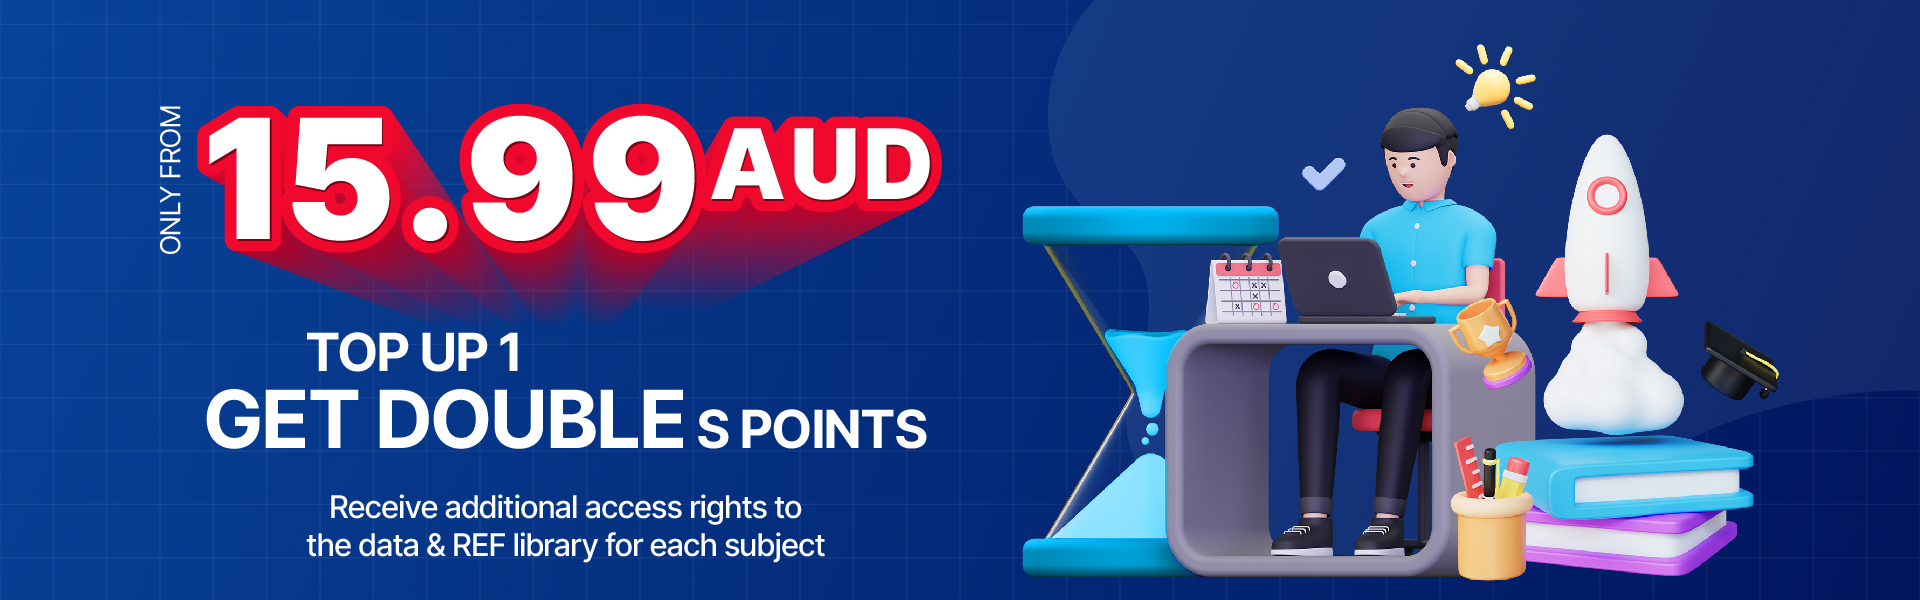
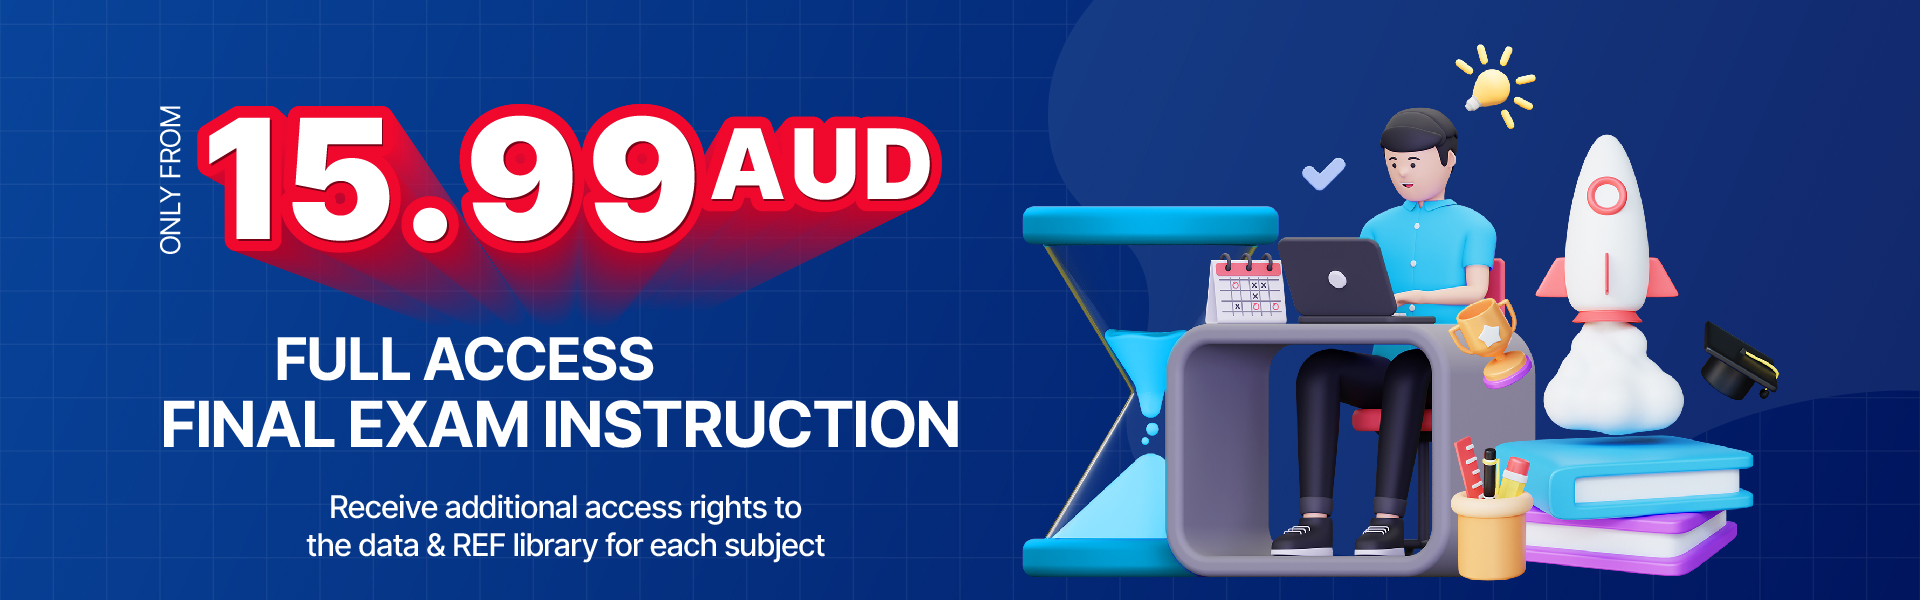
fixbug

Changed region(s): [[0.0625, 0.54, 0.5, 0.75]]

diff --git a/app/Http/Controllers/Admin/WebinarController.php b/app/Http/Controllers/Admin/WebinarController.php
@@ -54,7 +54,7 @@ class WebinarController extends Controller
         removeContentLocale();
 
         $type = $request->get('type', 'webinar');
-        $query = Webinar::where('webinars.type', $type);
+        $query = Webinar::where('webinars.status', 'active');
 
         $totalWebinars = $query->count();
         $totalPendingWebinars = deepClone($query)->where('webinars.status', 'pending')->count();
@@ -69,10 +69,7 @@ class WebinarController extends Controller
             ->with('subCategories')
             ->get();
 
-        $inProgressWebinars = 0;
-        if ($type == 'webinar') {
-            $inProgressWebinars = $this->getInProgressWebinarsCount();
-        }
+        $inProgressWebinars = $this->getInProgressWebinarsCount();
 
         $query = $this->filterWebinar($query, $request)
             ->with([
@@ -126,7 +123,7 @@ class WebinarController extends Controller
             'totalDurations' => $totalDurations,
             'totalSales' => !empty($totalSales) ? $totalSales->sales_count : 0,
             'categories' => $categories,
-            'inProgressWebinars' => $inProgressWebinars,
+            'inProgressWebinars' => $inProgressWebinars ?? 0,
             'classesType' => $type,
         ];
 
@@ -308,8 +305,8 @@ class WebinarController extends Controller
     private function getInProgressWebinarsCount()
     {
         $count = 0;
-        $webinars = Webinar::where('type', 'webinar')
-            ->where('status', 'active')
+        $webinars = Webinar::
+            where('status', 'active')
             ->where('start_date', '<=', time())
             ->whereHas('sessions')
             ->get();

diff --git a/resources/views/admin/includes/sidebar.blade.php b/resources/views/admin/includes/sidebar.blade.php
@@ -64,7 +64,7 @@
                             </li> -->
 
                             <li class="{{ (request()->is(getAdminPanelUrl('/webinars', false)) and request()->get('type') == 'webinar') ? 'active' : '' }}">
-                                <a class="nav-link @if(!empty($sidebarBeeps['webinars']) and $sidebarBeeps['webinars']) beep beep-sidebar @endif" href="{{ getAdminPanelUrl() }}/webinars?type=webinar">{{ trans('admin/main.live_classes') }}</a>
+                                <a class="nav-link @if(!empty($sidebarBeeps['webinars']) and $sidebarBeeps['webinars']) beep beep-sidebar @endif" href="{{ getAdminPanelUrl() }}/webinars">{{ trans('admin/main.live_classes') }}</a>
                             </li>
 
                           <!--   <li class="{{ (request()->is(getAdminPanelUrl('/webinars', false)) and request()->get('type') == 'text_lesson') ? 'active' : '' }}">
@@ -889,7 +889,7 @@
                         @endcan()
                     </ul>
                 </li>
-            @endcan 
+            @endcan
             -->
 
             @can('admin_additional_pages')
@@ -918,7 +918,7 @@
                         @can('admin_additional_pages_navbar_links')
                             <li class="{{ (request()->is(getAdminPanelUrl('/additional_page/navbar_links', false))) ? 'active' : '' }}">
                                 <a class="nav-link" href="{{ getAdminPanelUrl() }}/additional_page/navbar_links">{{ trans('admin/main.top_navbar') }}</a>
-                            </li> 
+                            </li>
                         @endcan()-->
                     </ul>
                 </li>

diff --git a/lang/vi/home.php b/lang/vi/home.php
@@ -98,7 +98,7 @@ return [
     'Time Saved' => 'Tiết kiệm thời gian',
     'Save your time' => 'Tiết kiệm thời gian của bạn lên đến 70% và Tăng hiệu suất lên 180%',
     'JUMPSTART YOUR SUCCESS' => 'BẮT ĐẦU SỰ THÀNH CÔNG CỦA BẠN <br/> CHO BÀI TẬP SẮP TỚI',
-    'SIGN UP NOW TO PURCHASE' => 'ĐĂNG KÝ NGAY ĐỂ MUA HƯỚNG DẪN <br/> CHI TIẾT VỚI GIÁ 10.99 AUD',
+    'SIGN UP NOW TO PURCHASE' => 'ĐĂNG KÝ NGAY ĐỂ MUA HƯỚNG DẪN <br/> CHI TIẾT VỚI GIÁ 15.99 AUD',
     'SIGN UP FOR FREE TRIAL' => 'ĐĂNG KÝ DÙNG THỬ',
     'Start learning with Top Trending Outlines' => 'Bắt đầu học với Đề cương phổ biến nhất',
     'Make a progress towards high scores' => 'Đạt điểm cao bằng cách bắt đầu với những đề cương được bình chọn cao nhất',

diff --git a/lang/en/home.php b/lang/en/home.php
@@ -98,7 +98,7 @@ return [
     'Time Saved' => 'Time Saved',
     'Save your time' => 'Save your time to 70% and Boost your Efficiency to 180%',
     'JUMPSTART YOUR SUCCESS' => 'JUMPSTART YOUR SUCCESS <br/> FOR THE UPCOMING ASSIGNMENT',
-    'SIGN UP NOW TO PURCHASE' => 'SIGN UP NOW TO PURCHASE THE DETAILED <br/> INSTRUCTION AT 10.99 AUD',
+    'SIGN UP NOW TO PURCHASE' => 'SIGN UP NOW TO PURCHASE THE DETAILED <br/> INSTRUCTION AT 15.99 AUD',
     'SIGN UP FOR FREE TRIAL' => 'SIGN UP FOR FREE TRIAL',
     'Start learning with Top Trending Outlines' => 'Start learning with Top Trending Outlines',
     'Make a progress towards high scores' => 'Make a progress towards high scores by starting with the highest-voted outlines',

diff --git a/resources/views/admin/dashboard.blade.php b/resources/views/admin/dashboard.blade.php
@@ -468,7 +468,7 @@
                                         </a>
                                     @endforeach
 
-                                    <a href="{{ getAdminPanelUrl() }}/webinars?type=webinar" class="ticket-item ticket-more">
+                                    <a href="{{ getAdminPanelUrl() }}" class="ticket-item ticket-more">
                                         {{trans('admin/main.view_all')}} <i class="fas fa-chevron-right"></i>
                                     </a>
                                 </div>

diff --git a/resources/views/admin/webinars/lists.blade.php b/resources/views/admin/webinars/lists.blade.php
@@ -240,7 +240,7 @@
                                 @php
                                     $countWebinar = $webinars->total();
                                 @endphp
-                              <strong> {{__('home.Total results') }} : {{$countWebinar}}</strong>   
+                              <strong> {{__('home.Total results') }} : {{$countWebinar}}</strong>
                             </div>
                         </div>
 
